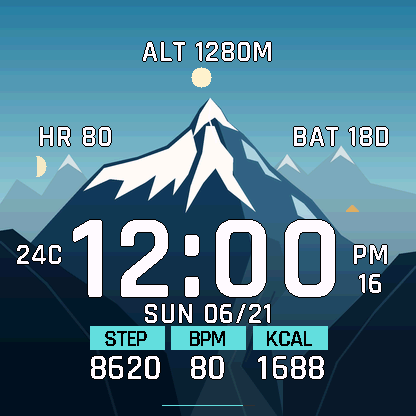
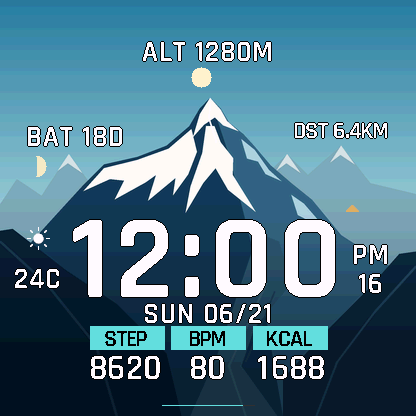
feat: configure all Alpine data slots with native watch settings

Changed region(s): [[0.6875, 0.2812, 0.9375, 0.375], [0.0625, 0.2812, 0.3125, 0.375], [0.0312, 0.5625, 0.1562, 0.7188]]

diff --git a/alpine/tools/package_local.py b/alpine/tools/package_local.py
@@ -1,22 +1,19 @@
-"""Package only final live PRGs and explicitly selected native evidence."""
+"""Package final live PRGs, native configuration screenshots and instructions."""
 from pathlib import Path
 from PIL import Image,ImageDraw,ImageFont
 import hashlib,json,shutil,zipfile
-R=Path(__file__).resolve().parents[1];E=R/'dist/evidence';D=R/'docs';version='1.2.0'
-frames=[('本能 · 晴天正午','sky-noon-instinct3.png',2),('日出 · 04:50','sky-sunrise.png',1),('晴天正午 · 12:00','noon.png',1),('本能 · 雪天','sky-snow-instinct2s.png',2),('近满月 · 23:00','sky-fullmoon.png',1),('雪天 · 云层与积雪','sky-snow.png',1)]
-font_path=R.parent/'moke/assets/fonts/NotoSansCJKsc-Regular.otf'
-f=ImageFont.truetype(str(font_path),23);small=ImageFont.truetype(str(font_path),15)
-board=Image.new('RGB',(1280,1040),(14,19,23));draw=ImageDraw.Draw(board)
-for i,(title,name,scale) in enumerate(frames):
- col=i%3;row=i//3;left=[0,416,848][col];width=400 if col==0 else 416;top=row*520
- im=Image.open(E/name).convert('RGB');assert im.size in [(176,176),(163,156),(416,416)]
- shutil.copy2(E/name,D/('sky-noon.png' if name=='noon.png' else name))
- im=im.resize((im.width*scale,im.height*scale),Image.Resampling.NEAREST)
- draw.text((left+16,top+12),title,font=f,fill='white')
- board.paste(im,(left+(width-im.width)//2,top+54+(416-im.height)//2))
- draw.text((left+16,top+483),'模拟器 · 演示日期与天气'+(' · 2×' if scale==2 else ' · 原生尺寸'),font=small,fill=(154,175,183))
-board.save(D/'preview-weather.png');board.save(D/'preview-board.png')
-for source,target in [('noon.png','epix2-native.png'),('sky-fullmoon.png','epix2-night.png'),('sky-noon-instinct3.png','instinct3-native.png'),('sky-snow-instinct2s.png','instinct2s-native.png')]:shutil.copy2(E/source,D/target)
+R=Path(__file__).resolve().parents[1];E=R/'dist/evidence';D=R/'docs';version='1.3.0'
+frames=[('默认：天气圆窗','slots-weather-final.png'),('手表端自定义数据位','slots-menu-zh.png'),('示例：底部替换为距离','slots-custom-distance.png')]
+f=ImageFont.truetype(str(R.parent/'moke/assets/fonts/NotoSansCJKsc-Regular.otf'),22);small=ImageFont.truetype(str(R.parent/'moke/assets/fonts/NotoSansCJKsc-Regular.otf'),15)
+board=Image.new('RGB',(1200,460),(14,19,23));draw=ImageDraw.Draw(board)
+for i,(title,name) in enumerate(frames):
+ im=Image.open(E/name).convert('RGB');assert im.size==(176,176)
+ shutil.copy2(E/name,D/name);im=im.resize((352,352),Image.Resampling.NEAREST)
+ draw.text((i*400+22,15),title,font=f,fill='white');board.paste(im,(i*400+24,60))
+ draw.text((i*400+22,425),'实际模拟器 · 演示数据 · 2×',font=small,fill=(154,175,183))
+board.save(D/'preview-slots.png');board.save(D/'preview-board.png')
+for name in ['slots-choices-zh.png','slots-custom-stress.png','slots-default-epix2.png']:shutil.copy2(E/name,D/name)
+shutil.copy2(E/'slots-weather-final.png',D/'instinct3-native.png');shutil.copy2(E/'slots-default-epix2.png',D/'epix2-native.png')
 manifest=[]
 for p in sorted((R/'bin').glob('*-live.prg')):
  target=R/'dist'/p.name;shutil.copy2(p,target);manifest.append({'file':target.name,'bytes':target.stat().st_size,'sha256':hashlib.sha256(target.read_bytes()).hexdigest()})
@@ -24,21 +21,20 @@ assert len(manifest)==6
 (R/'dist/SHA256SUMS').write_text(''.join(x['sha256']+'  '+x['file']+'\n' for x in manifest));(R/'dist/builds.json').write_text(json.dumps(manifest,indent=2)+'\n')
 (R/'dist/INSTALL.txt').write_text(f'''山境 Alpine {version}
 
-选择对应设备的 -live.prg，USB 连接手表，复制到 GARMIN/APPS/，安全断开后在表盘菜单选择山境。
-instinct3solar45mm = 本能 3 Solar 45/50 mm
-instinct2 / instinct2s / instinct2x = 本能 2 / 2S / 2X
-fenix7 = fēnix 7；epix2 = epix Gen 2
-不能跨机型安装。
+选择对应设备的 -live.prg，USB 连接手表后复制到 GARMIN/APPS/，安全断开，在表盘菜单选择山境。
+instinct3solar45mm = 本能 3 Solar 45/50 mm；instinct2 / instinct2s / instinct2x = 本能 2 / 2S / 2X；fenix7 = fēnix 7；epix2 = epix Gen 2。不能跨机型安装。
 
-日月按分钟更新；有有效缓存位置时使用近似天文计算，无位置时采用本地时段/月相示意。正常同步天气或让手表已有定位可提供位置，本表盘不主动启动 GPS。
-晴天零云，多云、阴雨雪雾改变天空与山体；天气读取系统缓存。圆窗默认心率，电池为系统预计剩余天数，缺失时显示 --D。
-已做编译、数值与模拟器验证，未完成真机安装、当地实际升落对照和长期续航测量；未上架商店。
+自定义：进入这款表盘的「设置 / 自定义」→「数据位」，选择圆窗、顶部/侧边或底部位置，再选择指标。选中自动保存，BACK 返回后生效；固件入口名称可能略有不同。
+右上圆窗默认天气图标与温度，底部默认步数/心率/热量。可以独立换成心率、步数、热量、海拔、剩余天数、距离、天气温度、压力、通知、日出、日落或隐藏。
+
+太阳月亮与天气联动保持原有功能。有位置时计算近似升落，无位置时为时段示意；天气与温度读取系统缓存。仅完成编译与官方模拟器验证，未做真机验收或上架商店。
 ''')
 archive=R/f'dist/WristInk-Alpine-{version}-local.zip'
 with zipfile.ZipFile(archive,'w',zipfile.ZIP_DEFLATED) as z:
  for p in sorted((R/'dist').glob('*-live.prg')):z.write(p,p.name)
  for name in ['SHA256SUMS','INSTALL.txt','builds.json']:z.write(R/'dist'/name,name)
  z.write(R/'assets/astronomy/LICENSE-SunCalc.txt','licenses/LICENSE-SunCalc.txt');z.write(R/'assets/fonts/OFL-Rajdhani.txt','licenses/OFL-Rajdhani.txt')
- z.write(R/'assets/astronomy/SOURCES.md','astronomy-sources.md');z.write(D/'validation.md','validation.md');z.write(D/'preview-weather.png','preview.png')
- for _,name,_ in frames:z.write(E/name,'screens/'+name)
+ z.write(D/'validation.md','validation.md');z.write(D/'preview-slots.png','preview.png')
+ for _,name in frames:z.write(E/name,'screens/'+name)
+ z.write(E/'slots-default-epix2.png','screens/slots-default-epix2.png')
 print(archive)

diff --git a/alpine/tools/settings.py b/alpine/tools/settings.py
@@ -1,9 +1,19 @@
+"""Single source for persisted IDs, Connect IQ settings and on-watch menus."""
 from pathlib import Path
 from xml.sax.saxutils import escape
 R=Path(__file__).resolve().parents[1]
-fields=[('TimeFormat',0,'Time format','时间格式',['System','12 hour','24 hour'],['跟随系统','12 小时','24 小时']),('Scene',0,'Landscape','山景',['Automatic','Dawn','Day','Dusk','Night','Rain','Warm accent','Lightning','Rainbow','Fireworks','Snow','Overcast','Fog'],['自动','黎明','白昼','黄昏','夜晚','雨景','暖色强调','闪电','彩虹','烟花','雪天','阴天','雾天']),('Circle',0,'Instinct circle','本能圆窗',['Heart rate','Battery days','Stress'],['心率','剩余天数','压力']),('Smart',True,'Smart scenes','智能场景',None,None),('Seconds',True,'Seconds when awake','抬腕显示秒数',None,None),('LowBattery',20,'Low battery threshold (%)','低电量阈值（%）',None,None),('StressLimit',75,'Stress threshold','压力阈值',None,None)]
-for key,title,cn,default in [('Left','Left data','左侧数据',0),('Middle','Middle data','中间数据',1),('Right','Right data','右侧数据',2)]:fields.append((key,default,title,cn,['Steps','Heart rate','Calories','Altitude','Battery days','Distance'],['步数','心率','总热量','海拔','剩余天数','距离']))
-props=[];settings=[];en=['<string id="AppName">WristInk Alpine</string>'];zh=['<string id="AppName">山境 Alpine</string>']
+metrics=['Steps','Heart rate','Calories','Altitude','Battery days','Distance','Weather / temperature','Stress','Notifications','Sunrise','Sunset','Hidden']
+cnmetrics=['步数','心率','总热量','海拔','剩余天数','距离','天气 / 温度','压力','通知数','日出','日落','隐藏']
+slots=[('CircleData',6,'Circle / weather slot','圆窗 / 天气位'),('HeaderTop',3,'Top data','顶部数据'),('HeaderLeft',4,'Mountain left data','山景左侧数据'),('HeaderRight',5,'Mountain right (colour)','山景右侧（彩屏）'),('Left',0,'Bottom left','底部左侧'),('Middle',1,'Bottom middle','底部中间'),('Right',2,'Bottom right','底部右侧')]
+fields=[('TimeFormat',0,'Time format','时间格式',['System','12 hour','24 hour'],['跟随系统','12 小时','24 小时']),('Scene',0,'Landscape','山景',['Automatic','Dawn','Day','Dusk','Night','Rain','Warm accent','Lightning','Rainbow','Fireworks','Snow','Overcast','Fog'],['自动','黎明','白昼','黄昏','夜晚','雨景','暖色强调','闪电','彩虹','烟花','雪天','阴天','雾天']),('Smart',True,'Smart scenes','智能场景',None,None),('Seconds',True,'Seconds when awake','抬腕显示秒数',None,None),('LowBattery',20,'Low battery threshold (%)','低电量阈值（%）',None,None),('StressLimit',75,'Stress threshold','压力阈值',None,None)]
+props=['<property id="Circle" type="number">0</property>'];settings=[]
+en=['<string id="AppName">WristInk Alpine</string>','<string id="DataSlots">Fields</string><string id="CircleSlot">Circle</string><string id="WeatherSlot">Time left</string><string id="WeatherShort">Weather</string>'];zh=['<string id="AppName">山境 Alpine</string>','<string id="DataSlots">数据位</string><string id="CircleSlot">圆窗</string><string id="WeatherSlot">时间左侧</string><string id="WeatherShort">天气/温度</string>']
+for i,(a,b) in enumerate(zip(metrics,cnmetrics)):
+ en.append(f'<string id="Metric{i}">{escape(a)}</string>');zh.append(f'<string id="Metric{i}">{escape(b)}</string>')
+for key,default,title,cn in slots:
+ props.append(f'<property id="{key}" type="number">{default}</property>');en.append(f'<string id="{key}">{escape(title)}</string>');zh.append(f'<string id="{key}">{escape(cn)}</string>')
+ config='<settingConfig type="list">'+''.join(f'<listEntry value="{i}">@Strings.Metric{i}</listEntry>' for i in range(len(metrics)))+'</settingConfig>'
+ settings.append(f'<setting propertyKey="@Properties.{key}" title="@Strings.{key}">{config}</setting>')
 for key,default,title,cn,opts,cnopts in fields:
  typ='boolean' if isinstance(default,bool) else 'number';props.append(f'<property id="{key}" type="{typ}">{str(default).lower()}</property>');en.append(f'<string id="{key}">{escape(title)}</string>');zh.append(f'<string id="{key}">{escape(cn)}</string>')
  if opts:
@@ -18,3 +28,15 @@ for key,default,title,cn,opts,cnopts in fields:
 (R/'resources/settings/properties.xml').write_text('<properties>'+''.join(props)+'</properties>\n')
 (R/'resources/settings/settings.xml').write_text('<settings>'+''.join(settings)+'</settings>\n')
 for path,items in [('resources',en),('resources-zhs',zh)]: (R/path/'strings/strings.xml').write_text('<strings>'+''.join(items)+'</strings>\n')
+# Native menu strings and stable IDs generated from the same definition.
+keys=','.join('"'+x[0]+'"' for x in slots);names=','.join('Rez.Strings.'+x[0] for x in slots)
+(R/'source/SlotCatalog.mc').write_text('''import Toybox.Lang;
+import Toybox.WatchUi;
+module SlotCatalog {
+ var keys as Array<String> = ['''+keys+'''];
+ var titles as Array<ResourceId> = ['''+names+'''];
+ var metrics as Array<ResourceId> = ['''+','.join('Rez.Strings.WeatherShort' if i==6 else 'Rez.Strings.Metric'+str(i) for i in range(len(metrics)))+'''];
+ function isSlot(key) {for(var i=0;i<keys.size();i++) {if(keys[i].equals(key)) {return true;}}return false;}
+ function name(value as Number) as String {return WatchUi.loadResource(metrics[value]) as String;}
+}
+''')

diff --git a/alpine/tools/generate.py b/alpine/tools/generate.py
@@ -18,12 +18,17 @@ def font(out,name,height,chars,bold=False):
         im=Image.new('RGBA',(w,h));ImageDraw.Draw(im).text((-box[0],-box[1]),ch,font=f,fill='white',stroke_width=stroke,stroke_fill='white')
         # MIP and AMOLED share grid-fitted fonts, regenerated at each native size.
         a=im.getchannel('A').point(lambda v:255 if v>=105 else 0);im.putalpha(a)
+        if name=='Circle':
+            bounds=a.getbbox()
+            if bounds:im=im.crop((bounds[0],0,bounds[2],im.height))
         glyphs.append((ch,im))
     cell=max(im.width for _,im in glyphs)+2;line=max(im.height for _,im in glyphs)
+    circle_top=min(f.getbbox(c,stroke_width=stroke)[1] for c in chars if c.isalnum()) if name=='Circle' else 0
+    if name=='Circle':line=max(f.getbbox(c,stroke_width=stroke)[3] for c in chars)-circle_top
     atlas=Image.new('RGBA',(cell*len(chars),line))
     rows=[f'info face="Alpine Rajdhani" size={line} bold=1 italic=0 unicode=1 smooth=0 aa=1',f'common lineHeight={line} base={line} scaleW={atlas.width} scaleH={line} pages=1 packed=0',f'page id=0 file="{name}.png"',f'chars count={len(chars)}']
     for i,(ch,im) in enumerate(glyphs):
-        y=line-im.height;atlas.paste(im,(cell*i,y))
+        y=f.getbbox(ch,stroke_width=stroke)[1]-circle_top if name=='Circle' else line-im.height;atlas.paste(im,(cell*i,y))
         rows.append(f'char id={ord(ch)} x={cell*i} y=0 width={im.width} height={line} xoffset=0 yoffset=0 xadvance={im.width+max(1,round(height*.07))} page=0 chnl=15')
     atlas.save(out/(name+'.png'));(out/(name+'.fnt')).write_text('\n'.join(rows)+'\n')
 
@@ -75,9 +80,9 @@ def generate():
         w,h=map(int,c['deviceFamily'].split('-')[-1].split('x'));mono=c['bitsPerPixel']==1;scale=h/176 if mono else w/260
         out=ROOT/'generated'/device;res=out/'resources';fonts=res/'fonts';fonts.mkdir(parents=True,exist_ok=True)
         sizes={'Time':round(35*scale if mono else 49*scale),'Small':max(7,round(9*scale if mono else 13*scale)),'Data':round(13*scale if mono else 19*scale),'Circle':round(20*scale),'Aod':round(21*scale)}
-        for name,height in sizes.items():font(fonts,name,height,'0123456789:-' if name in ('Time','Circle','Aod') else ' ABCDEFGHIJKLMNOPQRSTUVWXYZ0123456789-:.%/',name in ('Time','Circle'))
+        for name,height in sizes.items():font(fonts,name,height,('0123456789:-.CFDKM' if name=='Circle' else '0123456789:-') if name in ('Time','Circle','Aod') else ' ABCDEFGHIJKLMNOPQRSTUVWXYZ0123456789-:.%/',name in ('Time','Circle'))
         for name,height in [('Label',max(7,round((8 if mono else 11)*scale))),('Metric',int((12 if mono else 15)*scale))]:
-            precise_font(fonts,name,height,'0123456789-:.DKM' if name=='Metric' else ' ABCDEFGHIJKLMNOPQRSTUVWXYZ0123456789-:.',round((37 if mono else 45)*scale) if name=='Metric' else None)
+            precise_font(fonts,name,height,'0123456789-:.CFDKM' if name=='Metric' else ' ABCDEFGHIJKLMNOPQRSTUVWXYZ0123456789-:.',round((37 if mono else 45)*scale) if name=='Metric' else None)
             sizes[name]=height
         (fonts/'fonts.xml').write_text('<fonts>'+''.join(f'<font id="{n}" filename="{n}.fnt"/>' for n in sizes)+'</fonts>')
         loc=s['display']['location'];sub=s.get('subscreen');cx=cy=radius=0
@@ -102,7 +107,7 @@ def generate():
     (ROOT/'monkey.jungle').write_text('\n'.join(jungle)+'\n')
     for mode in ['preview','tests']:
         lines=[l.replace('project.manifest = manifest.xml',f'project.manifest = {mode}/manifest.xml').replace('base.sourcePath = source;live','base.sourcePath = source;'+('preview' if mode=='preview' else 'live;tests')) for l in jungle]
-        if mode=='preview':lines=[l.replace('base.resourcePath = resources','base.resourcePath = resources;preview/resources') for l in lines]
+        if mode=='preview':lines=[l.replace('base.resourcePath = resources','base.resourcePath = resources;preview/resources').replace('.lang.zhs = resources-zhs','.lang.zhs = resources-zhs;preview/resources-zhs') for l in lines]
         (ROOT/(mode+'.jungle')).write_text('\n'.join(lines)+'\n')
     (ROOT/'generated/profiles.json').write_text(json.dumps(profiles,indent=2)+'\n')
     for mode,ident in [('live','bb71078cce15417aa5425aa350817001'),('preview','bb71078cce15417aa5425aa350817002'),('tests','bb71078cce15417aa5425aa350817003')]:
@@ -113,7 +118,7 @@ def generate():
     for mode in ['preview','tests']:
         for device in DEVICES:
             rel=f'generated/{device}/{mode}-manifest.xml'
-            ident=uuid.uuid5(uuid.NAMESPACE_DNS,f'wristink.alpine.weather3.{mode}.{device}').hex
+            ident=uuid.uuid5(uuid.NAMESPACE_DNS,f'wristink.alpine.slots3.{mode}.{device}').hex
             source=(ROOT/mode/'manifest.xml').read_text()
             old='bb71078cce15417aa5425aa350817002' if mode=='preview' else 'bb71078cce15417aa5425aa350817003'
             (ROOT/rel).write_text(source.replace(old,ident))

diff --git a/alpine/tools/check_slot_settings.py b/alpine/tools/check_slot_settings.py
@@ -1,0 +1,18 @@
+"""Verify the compiler-produced settings metadata, not just source XML."""
+from pathlib import Path
+import argparse,json,xml.etree.ElementTree as ET
+R=Path(__file__).resolve().parents[1]
+p=argparse.ArgumentParser();p.add_argument('devices',nargs='+');p.add_argument('--mode',default='live');a=p.parse_args()
+expected={'CircleData':6,'HeaderTop':3,'HeaderLeft':4,'HeaderRight':5,'Left':0,'Middle':1,'Right':2}
+for device in a.devices:
+ path=R/f'bin/Alpine-{device}-{a.mode}-settings.json';data=json.loads(path.read_text());items={x['key']:x for x in data['settings']}
+ assert 'Circle' not in items
+ for key,default in expected.items():
+  item=items[key];assert item['defaultValue']==default,(device,key,item)
+  assert item['valueType']=='number' and item['configType']=='list'
+  assert [x['value'] for x in item['configOptions']]==list(range(12))
+  for language in ['valyrian','zhs']:
+   strings=data['languages'][language]
+   assert item['configTitle'] in strings
+   for choice in item['configOptions']:assert choice['display'] in strings,(device,language,choice)
+ print(device,'7 independently configurable slots / 12 choices / English + Chinese: PASS')

diff --git a/alpine/README.md b/alpine/README.md
@@ -2,10 +2,10 @@
 
 全屏珠峰主题、大字时间与三栏数据的独立 Garmin Connect IQ 表盘。参考用户提供的 Forester X 展示图的信息层级，以珠峰北壁轮廓创作原创山景；不复用原作品牌或位图。山顶烟雾状飘雪已按用户要求移除。
 
-- **本能系列**：独立重画的深色天空与大块白色雪面，为硬件圆窗独立排版，右上默认显示心率，可切换剩余天数或压力。
+- **本能系列**：独立重画的深色天空与大块白色雪面，为硬件圆窗独立排版，右上默认显示天气图标和温度；可在手表端菜单独立改成其他指标。
 - **圆形彩屏**：原生尺寸珠峰、大块雪面、远山与云层，晨、昼、昏、夜四种时段；太阳和月亮按位置、时刻分别升落，月亮根据实际月相显示明暗；月亮在白天高于地平线时也可显示。
 - **智能场景**：低电量/高压力强调色、步数达标彩虹/夜间烟花；天气始终独立影响山景。手动预设还提供雨、雪、阴、雾和雷暴。场景是静态插画，不循环播放动画。
-- **数据**：底部三栏各可选择步数、心率、总热量、海拔、预计续航天数、距离；有未读通知时显示小型帐篷灯光。
+- **数据**：顶部、山景侧边、圆窗/天气位、底部三栏可独立替换数据；有未读通知时显示小型帐篷灯光。
 - **时间**：跟随系统或独立 12/24 小时制，秒数仅在唤醒时更新。AMOLED 休眠显示独立低亮时钟。
 - **设置**：英文默认、简体中文覆盖；显示单位跟随手表。表盘指标使用紧凑英文缩写。
 
@@ -22,6 +22,16 @@
 | epix2 | 416 × 416 | AMOLED |
 
 清单仅包括本次实现的六个 SDK 目标，不代表全部 Garmin 或全部本能型号。构建、模拟器运行和真机验收分别记录在 [验证记录](docs/validation.md)。
+
+## 自定义数据位
+
+进入手表中这款表盘的「设置 / 自定义」菜单，打开「数据位」，选一个位置，再选择想显示的指标；选择后自动保存，按 BACK 返回表盘。入口名称可能随固件语言略有不同。该入口由原生 `getSettingsView` 提供，本地侧载也可使用，不依赖商店网页设置。
+
+本能显示六个可配置位置：圆窗、顶部、山景左侧、底部左/中/右。彩屏额外显示山景右侧；圆窗选项对应彩屏时间左侧的天气位。
+
+可选项：步数、心率、总热量、海拔、系统预计剩余天数、距离、天气/温度、压力、通知数、日出、日落、隐藏。标签、图标与单位随指标同步切换；缺失值显示占位。日出/日落数据位只显示官方接口提供的时间，不把无定位时的画面示意时段当作实际时刻。
+
+默认布局避免重复：顶部海拔、左侧剩余天数、圆窗/天气位显示天气温度，底部为步数/心率/热量，彩屏右侧为距离。底部原有选项编号保持不变。升级时旧默认心率圆窗改为天气；旧版本明确选择的剩余天数/压力圆窗会保留，之后可随时在新菜单替换。
 
 ## 数据与刷新
 

diff --git a/alpine/docs/validation.md b/alpine/docs/validation.md
@@ -1,5 +1,17 @@
 # 山境验证记录 — 2026-11-03
 
+## 1.3.0 天气圆窗与可配置数据位
+
+按用户本轮要求，右上圆窗默认改为天气图标和温度，底部中间保持心率，避免默认重复。彩屏对应的时间左侧天气位使用同一配置；顶部海拔、山景左/右侧、底部三栏均可独立替换。共 12 个选项：步数、心率、总热量、海拔、预计续航天数、距离、天气/温度、压力、通知数、日出、日落、隐藏。标签、图标与单位随选择变化，长值使用有界字号/占位策略，隐藏后清除原数据位。
+
+新增原生 `AppBase.getSettingsView` → Menu2 数据位菜单，API 基线 3.2.0，覆盖当前目标设备。它是手表上的配置入口，不依赖模拟器 HTML 设置编辑器或商店发布。选择后写入 Properties，立即失效画面缓存，返回表盘生效。旧默认心率圆窗迁移到天气；旧明确选择的剩余天数/压力保留；底部既有值编号不变。迁移只执行一次，后续手动选择不会被重置。
+
+原生交互已在 Instinct 3 Solar 实际操作：打开菜单 → 圆窗从天气改为压力 → 返回表盘显示 STR 32 → 停止并重新启动程序仍保留；另在中文菜单将底部中间从心率改为距离，显示 KM 6.4，再恢复为心率。当前 `slots-menu-zh.png`、`slots-choices-zh.png`、`slots-custom-distance.png` 等为实际截图。模拟器控制连接曾超时，核对为本任务的测试实例后正常重启恢复；未终止其他项目任务。
+
+Instinct 2S 的 19 项原生回归通过，新增配置独立持久化、非法值拒绝、旧圆窗含义迁移、负温度/单位、缺失值、日出日落跨日格式和隐藏覆盖。最后仅补充了设置变化时立即刷新心率缓存，未修改数据映射和迁移逻辑。六个正式目标编译通过；对编译器生成的六份设置 JSON 检查了七个稳定属性键、12 个选项值、默认值及中英文字符串，均通过。天气图标为原创图元，圆窗字形从字体墨迹生成以避免透明边距造成过度缩字。
+
+新截图均为演示数据。未进行实体手表设置入口/天气同步/长期耗电验证，也未上传商店。下方早期版本的默认心率圆窗说明已由本轮要求取代。
+
 ## 1.2.0 日月升落与天气联动
 
 太阳和月亮使用独立的地平线可见性，不再按“白天太阳/晚上月亮”固定二选一。有效缓存位置下，SunCalc v1.9.0 近似公式按 UTC 计算高度角、时角与月相；太阳参考 Garmin 官方日出日落区间，月亮按自身高度角升落，月相由日月相对位置计算。图标轨迹映射到表盘天空并被山脊遮挡，非精确方位图。没有位置时使用明确的本地时段/月相示意，不主动启动 GPS。
